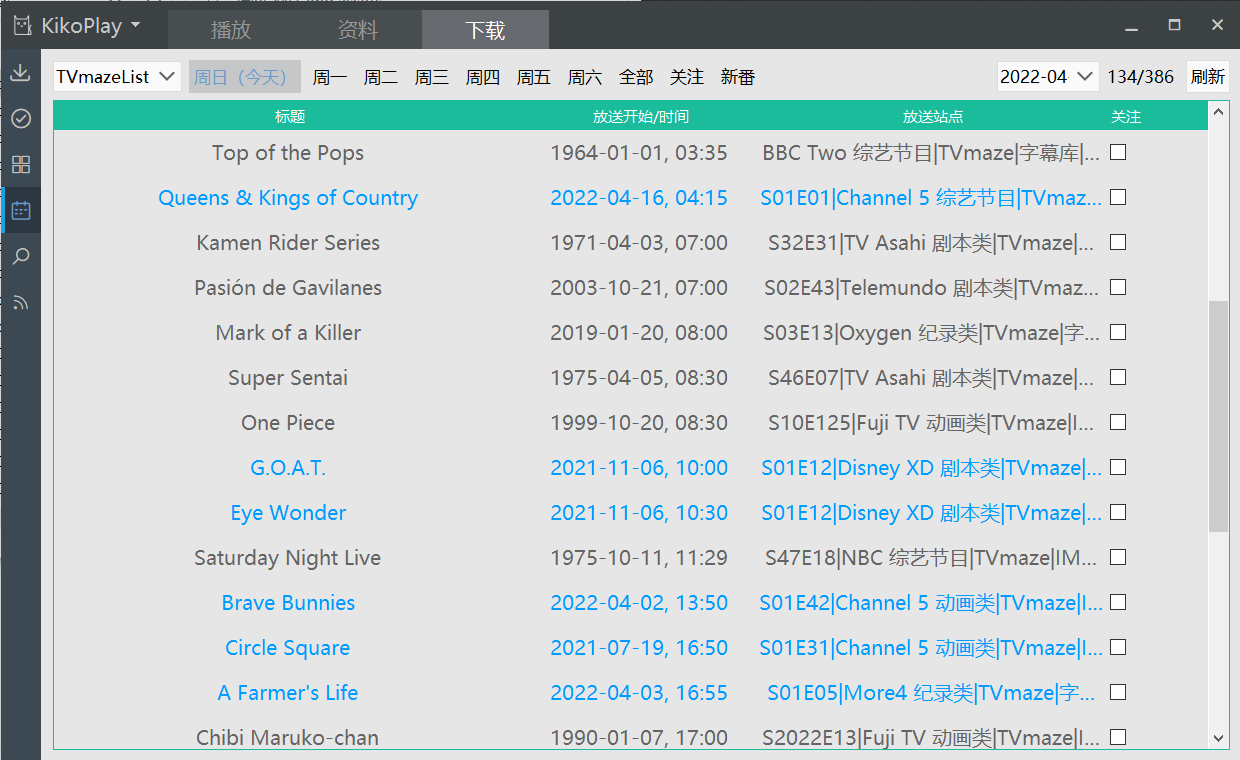
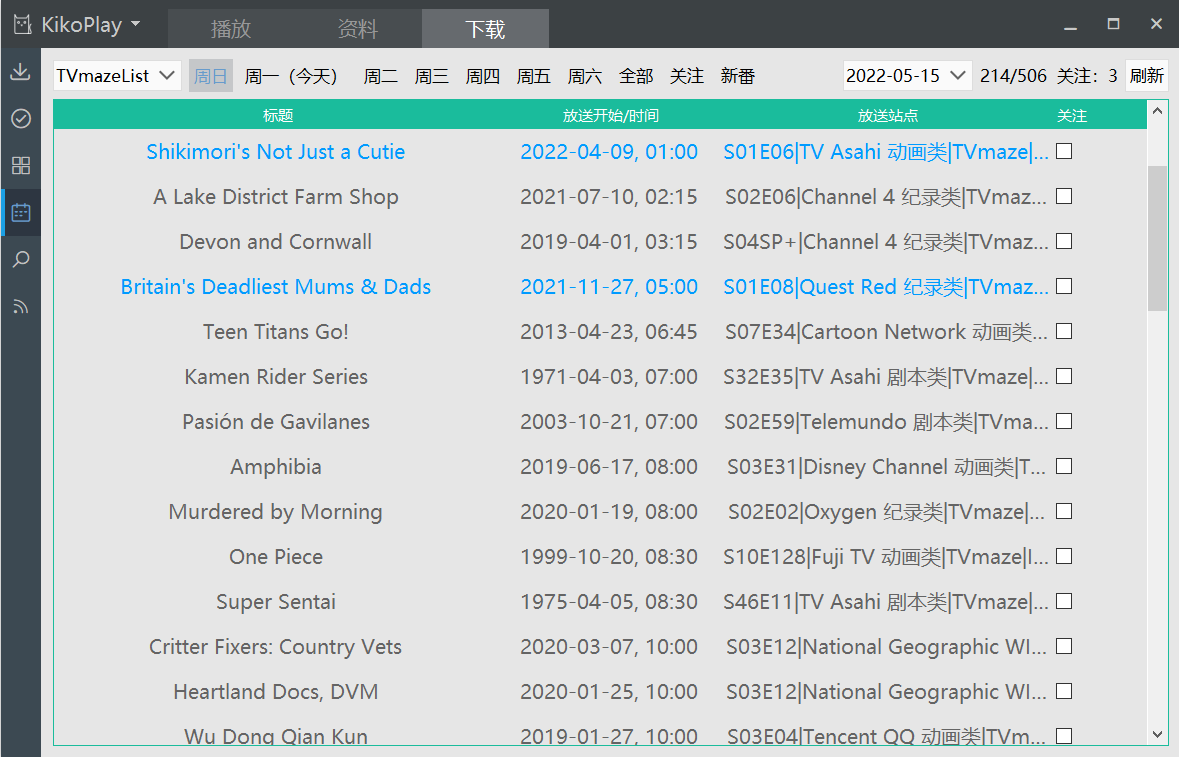
fix TVmazeList 0.1.1.220522_fix
+ 修复了放送站点中，季集序号 在部分情况不显示 的bug；
+ 修复了以地区限制电视网/网络频道时，无地区标识的剧集节目未保留 的bug；
+ 重构了按地区获取电视网/网络频道的剧集节目的方式；
+ 更改了排序优先级；

diff --git a/CHANGELOG.md b/CHANGELOG.md
@@ -21,22 +21,21 @@ tmdb.lua - 0.2.2.220521_build
   + 更改了集标题的选取策略，不以最后一集、而以每一集各自判断标题是否为序号标题；
     判断标题格式的方法依旧。序号标题形如"第N集"、"第N話"，若是则用原语言标题替换，除非原语言标题也是形如""序号标题。
 
-tvmazelist.lua - 0.1.1.220503_build
+tvmazelist.lua - 0.1.1.220522_fix
 
-+ minor feature：微调
++ fix：修复bug
 
-  + 现在可以设置按周分的列表范围，过去几周 至本周、以及下一周；
-    本周、下一周 一定有；往过去出现几周可以自定义。
+  + 修复了放送站点中，季集序号 在部分情况不显示 的bug；
+    季集序号当前形如 `S02E03`(第2季第3集)、`S2022E04`(2022年第4集)、`S05SP+`(第5季的一个重要特别篇)、`S05SP-`(第5季的一个普通特别篇) 等。
 
-  + 剧集类型相关；
-    + 剧集类型与播放平台一同显示，在`放送站点`下形如 `NHK 剧本类`。
-    + 现在可以设置时间表出现的剧集类型，仅剧集、剧集和综艺节目、所有剧集和节目。
-
-  + 更改了标题命名格式为仅标题，季数与集数一同显示，在`放送站点`下形如S02E03；
+  + 修复了以地区限制电视网/网络频道时，无地区标识(例如：Netflix 等)的剧集节目未保留 的bug；
 
 + refactor：代码重构
 
-  + 重构循环的httpget请求 为 httpgetbatch。
+  + 重构了按地区获取电视网/网络频道的剧集节目的方式；
+
+  + 更改了排序优先级；
+    按设定`时间表 - 排序`排序时，顺序相同的以`标题 季序号 集序号`为序。
 
 ## TMDb v 0
 
@@ -47,7 +46,7 @@ tvmazelist.lua - 0.1.1.220503_build
 + minor feature：微调
 
   + 增加了设置`搜索 - 显示剧集其他版本`，可以设定搜索操作中 是否搜索并显示 剧集其他版本及其各季。
-    其他版本会把剧集以不同方式分季(如：原播出时间、数字出版等)。
+    其他版本会把剧集以不同方式分季(如：原播出时间、故事线、数字出版等)。
 
 + fix：修复bug
 
@@ -65,6 +64,9 @@ tvmazelist.lua - 0.1.1.220503_build
   + 增加了角色名、职位名 等的翻译。
 
   + TMDb图片获取的优先级有变更。
+
+  + 更改了集标题的选取策略，不以第1集、而以最后一集判断。
+    判断方法依旧，即 形为"第N集"等的集标题，会被并非"第N話"、"Episode N"等的原语言集标题替代。
 
 + fix：修复bug
 
@@ -391,6 +393,23 @@ tvmazelist.lua - 0.1.1.220503_build
 ## TVmazeList v 0
 
 ### TVmazeList 0.1
+
+0.1.1.220503_build
+
++ minor feature：微调
+
+  + 现在可以设置按周分的列表范围，过去几周 至本周、以及下一周；
+    本周、下一周 一定有；往过去出现几周可以自定义。
+
+  + 剧集类型相关；
+    + 剧集类型与播放平台一同显示，在`放送站点`下形如 `NHK 剧本类`。
+    + 现在可以设置时间表出现的剧集类型，仅剧集、剧集和综艺节目、所有剧集和节目。
+
+  + 更改了标题命名格式为仅标题，季数与集数一同显示，在`放送站点`下形如S02E03；
+
++ refactor：代码重构
+
+  + 重构循环的httpget请求 为 httpgetbatch。
 
 0.1.1.220424_build
 

diff --git a/README.md b/README.md
@@ -163,7 +163,7 @@
 
 ## Q & A
 
-> 适用版本：TMDb >= 0.2.2.220506_fix  |  TVmazeList >= 0.1.1.220503_build
+> 适用版本：TMDb >= 0.2.2.220506_fix  |  TVmazeList >= 0.1.1.220522_fix
 
 ### 如何申请TMDb的API密钥?
 
